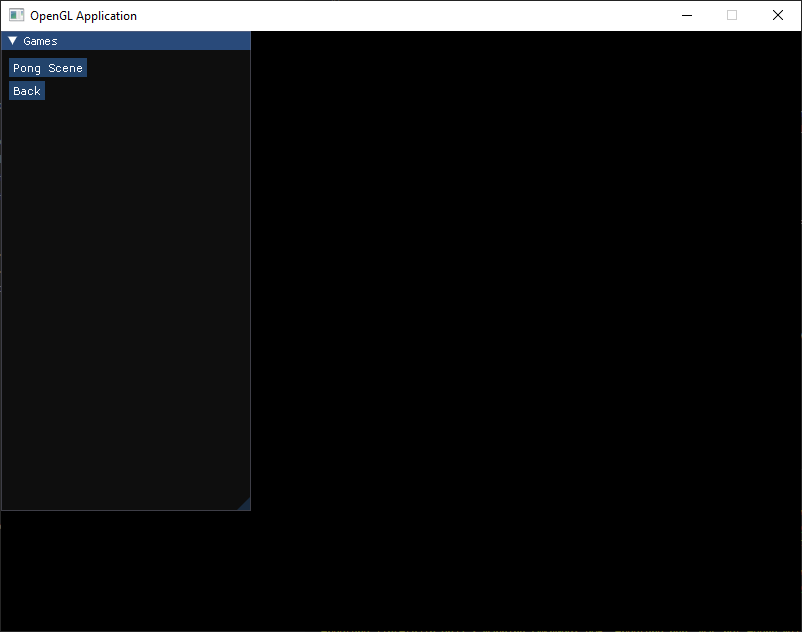
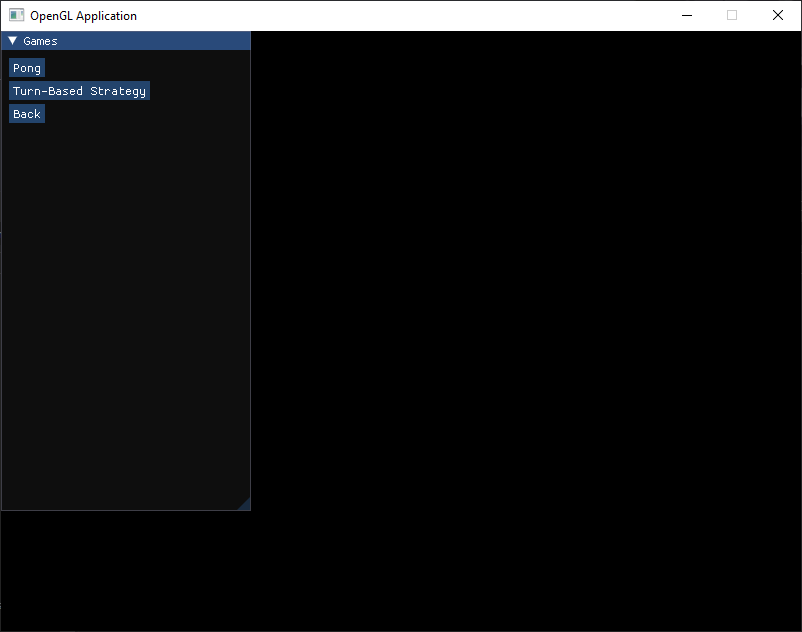
V1.0 updated readme

diff --git a/src/Application/Games/TurnStrategy/TurnStrategyGUI.cpp b/src/Application/Games/TurnStrategy/TurnStrategyGUI.cpp
@@ -67,7 +67,6 @@ namespace TurnStrategy {
                       static_cast<int>(std::round(selectedEntity->getPosition().x)),
                       static_cast<int>(std::round(selectedEntity->getPosition().y))  
                     };
-                    LOG_I("Create Settlement at %d %d", position.x, position.y);
                     dynamic_cast<Unit*>(selectedEntity)->doAction(1);
                     mScene_.getGame().spawnSettlement(position);
                 }
@@ -86,7 +85,6 @@ namespace TurnStrategy {
                       static_cast<int>(std::round(selectedEntity->getPosition().x)),
                       static_cast<int>(std::round(selectedEntity->getPosition().y))  
                     };
-                    LOG_I("Spawn unit at %d %d", position.x, position.y);
                     mScene_.getGame().spawnUnit(position);
                     dynamic_cast<Settlement*>(selectedEntity)->setPopulation(dynamic_cast<Settlement*>(selectedEntity)->getPopulation() - 1);
                 }

diff --git a/src/main.cpp b/src/main.cpp
@@ -1,8 +1,10 @@
 #include "App.h"
 #include "Logger.h"
+#include <iostream>
+#include <filesystem>
 
 int main() {
-    LOG_IV("Starting Application");
+    LOG_IV("Starting Application from %s", std::filesystem::current_path().string().c_str());
     App theApp;
     theApp.run();
     return 0;

diff --git a/README.md b/README.md
@@ -58,3 +58,10 @@ Games Scene is a scene to hold that multiple mini-games that are made using this
 ![alt text](./ScreenShots/PongScene.png)
 
 Pong Scene is a mini game that consists of 2 paddles and a ball. Scoring is tracked when the ball hits the other sides and the game can be replayed.
+
+### Turn Based Strategy Game Scene
+
+![alt text](./ScreenShots/TurnStrategyScene.png)
+
+
+Turn Based Strategy Game Scene is a small game inspired by Sid Meier's Civilization. The camera can be moved with WASD and zoomed in and out with the mouse wheel. Currently the game only has Settlements and Units. Settlements grow each turn and can produce Units if they have enough population and can buy more tiles if they have enough size. Units can move to tiles other than water with each move taking up moves and can also settle to make a new settlement
